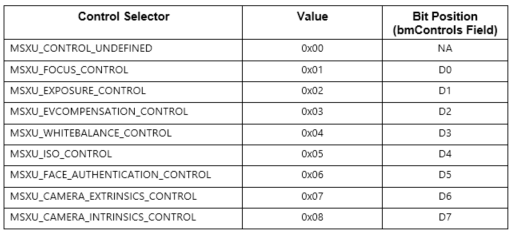
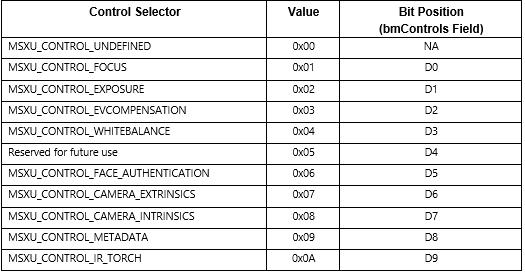
Add new documentation for IR Torch Control.

diff --git a/windows-driver-docs-pr/stream/ksproperty-cameracontrol-extended-irtorchmode.md b/windows-driver-docs-pr/stream/ksproperty-cameracontrol-extended-irtorchmode.md
@@ -1,0 +1,184 @@
+---
+title: KSPROPERTY\_CAMERACONTROL\_EXTENDED\_IRTORCHMODE
+description: This extended property control is used by the client to control an IR camera's infrared torch's power level and duty cycle.
+ms.assetid: 533759A0-6B2C-4AFC-9100-C431BCC9CF0F
+keywords: ["KSPROPERTY_CAMERACONTROL_EXTENDED_IRTORCHMODE Streaming Media Devices"]
+topic_type:
+- apiref
+api_name:
+- KSPROPERTY_CAMERACONTROL_EXTENDED_IRTORCHMODE
+api_location:
+- Ksmedia.h
+api_type:
+- HeaderDef
+ms.author: jocorley
+ms.date: 11/11/2018
+ms.topic: article
+ms.prod: windows-hardware
+ms.technology: windows-devices
+---
+
+# KSPROPERTY_CAMERACONTROL_EXTENDED_IRTORCHMODE
+
+This extended property control is used by the client to control an IR camera's infrared torch's power level and duty cycle. It is sent to the driver along with a standard [**KSCAMERA_EXTENDEDPROP_HEADER**](https://msdn.microsoft.com/library/windows/hardware/dn925136) structure followed by a [**KSCAMERA_EXTENDEDPROP_VIDEOPROCSETTING**](https://docs.microsoft.com/en-us/windows-hardware/drivers/ddi/content/ksmedia/ns-ksmedia-tagkscamera_extendedprop_videoprocsetting) structure.
+
+## <span id="Usage_Summary_Table"></span><span id="usage_summary_table"></span><span id="USAGE_SUMMARY_TABLE"></span>Usage Summary Table
+
+<table>
+<colgroup>
+<col width="20%" />
+<col width="20%" />
+<col width="20%" />
+<col width="20%" />
+<col width="20%" />
+</colgroup>
+<thead>
+<tr class="header">
+<th>Get</th>
+<th>Set</th>
+<th>Target</th>
+<th>Property descriptor type</th>
+<th>Property value type</th>
+</tr>
+</thead>
+<tbody>
+<tr class="odd">
+<td><p>Yes</p></td>
+<td><p>Yes</p></td>
+<td><p>Filter</p></td>
+<td><p>[<strong>KSPROPERTY</strong>](https://msdn.microsoft.com/library/windows/hardware/ff564262)</p></td>
+<td><p>[<strong>KSCAMERA_EXTENDEDPROP_HEADER</strong>](https://msdn.microsoft.com/library/windows/hardware/dn567563)</p></td>
+</tr>
+</tbody>
+</table>
+
+## Remarks
+
+The property request contains a [**KSCAMERA_EXTENDEDPROP_HEADER**](https://msdn.microsoft.com/library/windows/hardware/dn567563) structure and a [**KSCAMERA_EXTENDEDPROP_VIDEOPROCSETTING**](https://msdn.microsoft.com/library/windows/hardware/dn567564) structure.
+
+The total property data size is **sizeof**(KSCAMERA_EXTENDEDPROP_HEADER) + **sizeof**(KSCAMERA_EXTENDEDPROP_VIDEOPROCSETTING). The **Size** member of [**KSCAMERA_EXTENDEDPROP_HEADER**](https://msdn.microsoft.com/library/windows/hardware/dn567563) is set to this total property data size.
+
+The following are flags that can be placed in the **KSCAMERA_EXTENDEDPROP_HEADER.Flags** and **KSCAMERA_EXTENDEDPROP_HEADER.Capability** fields.  They define the IR torch's operating mode(s).
+
+| Torch mode                                                       | Description                        |
+|------------------------------------------------------------------|------------------------------------|
+| KSCAMERA_EXTENDEDPROP_IRTORCHMODE_OFF                            | Off.                               |
+| KSCAMERA_EXTENDEDPROP_IRTORCHMODE_ALWAYS_ON                      | Always on.                         |
+| KSCAMERA_EXTENDEDPROP_IRTORCHMODE_ALTERNATING_FRAME_ILLUMINATION | On for every other frame.          |
+
+KSCAMERA_EXTENDEDPROP_IRTORCHMODE is always a synchronous control.  The control has no defined behavior when the camera is not streaming.
+
+For a GET request, a driver sets the following fields:
+
+- **KSCAMERA_EXTENDEDPROP_HEADER.Capability** with a bitmask of the above KSCAMERA_EXTENDEDPROP_IRTORCHMODE_*XXX* flags representing the operating modes supported by the camera.
+- **KSCAMERA_EXTENDEDPROP_HEADER.Flags** to one of the above KSCAMERA_EXTENDEDPROP_IRTORCHMODE_*XXX* flags to indicate the current operating mode.
+- **KSCAMERA_EXTENDEDPROP_VIDEOPROCSETTING.Mode** to 0.
+- **KSCAMERA_EXTENDEDPROP_VIDEOPROCSETTING.Min** to the minimum power level available.
+- **KSCAMERA_EXTENDEDPROP_VIDEOPROCSETTING.Max** to the maximum power level available.
+- **KSCAMERA_EXTENDEDPROP_VIDEOPROCSETTING.Step** to the minimum increment between power levels.
+- **KSCAMERA_EXTENDEDPROP_VIDEOPROCSETTING.VideoProc.ul** to the current power level. This value should default to the same power level normally used by the face authentication control.
+
+For a SET request, a driver uses the following fields:
+
+- **KSCAMERA_EXTENDEDPROP_HEADER.Flags** to set an operating mode.
+- **KSCAMERA_EXTENDEDPROP_VIDEOPROCSETTING.VideoProc.ul** to set a power level.  This value has no effect on KSCAMERA_EXTENDEDPROP_IRTORCHMODE_OFF.
+
+The table below contains the descriptions and requirements for the [**KSCAMERA_EXTENDEDPROP_HEADER**](https://msdn.microsoft.com/library/windows/hardware/dn925136) structure fields when using the metadata control.
+
+<table>
+<colgroup>
+<col width="30%" />
+<col width="70%" />
+</colgroup>
+<thead>
+<tr class="header">
+<th>Member</th>
+<th>Description</th>
+</tr>
+</thead>
+<tbody>
+<tr class="odd">
+<td><p>Version</p></td>
+<td><p>This must be 1.</p></td>
+</tr>
+<tr class="even">
+<td><p>PinId</p></td>
+<td><p>KSCAMERA_EXTENDEDPROP_FILTERSCOPE (0xFFFFFFFF).</p></td>
+</tr>
+<tr class="odd">
+<td><p>Size</p></td>
+<td><p>This must be sizeof(<strong>KSCAMERA_EXTENDEDPROP_HEADER</strong>)+sizeof([<strong>KSCAMERA_EXTENDEDPROP_VIDEOPROCSETTING</strong>](https://msdn.microsoft.com/library/windows/hardware/dn925144)),</p></td>
+</tr>
+<tr class="even">
+<td><p>Result</p></td>
+<td><p>This value is ignored for synchronous controls.</p></td>
+</tr>
+<tr class="odd">
+<td><p>Capability</p></td>
+<td><p>May be any combination of <strong>KSCAMERA_EXTENDEDPROP_IRTORCHMODE_OFF</strong>, <strong>KSCAMERA_EXTENDEDPROP_IRTORCHMODE_ALWAYS_ON</strong> or <strong>KSCAMERA_EXTENDEDPROP_IRTORCHMODE_ALTERNATIVE_FRAME_ILLUMINATION</strong>.  
+This field must report at least one capability.  The field must report either  <strong>KSCAMERA_EXTENDEDPROP_IRTORCHMODE_ALWAYS_ON</strong> or <strong>KSCAMERA_EXTENDEDPROP_IRTORCHMODE_ALTERNATIVE_FRAME_ILLUMINATION</strong> or both. The value <strong>KSCAMERA_EXTENDEDPROP_IRTORCHMODE_OFF</strong> is optional.
+</p></td>
+</tr>
+<tr class="even">
+<td><p>Flags</p></td>
+<td><p>Must be one of the flags reported in Capability.  The default must value must be either <strong>KSCAMERA_EXTENDEDPROP_IRTORCHMODE_ALWAYS_ON</strong> or <strong>KSCAMERA_EXTENDEDPROP_IRTORCHMODE_ALTERNATIVE_FRAME_ILLUMINATION</strong>.</p></td>
+</tr>
+</tbody>
+</table>
+
+The table below contains the descriptions and requirements for the [**KSCAMERA_EXTENDEDPROP_VIDEOPROCSETTING**](https://msdn.microsoft.com/library/windows/hardware/dn567564) structure fields when using the IR torch mode control.
+
+<table>
+<colgroup>
+<col width="30%" />
+<col width="70%" />
+</colgroup>
+<thead>
+<tr class="header">
+<th>Member</th>
+<th>Description</th>
+</tr>
+</thead>
+<tbody>
+<tr class="odd">
+<td><p>Mode</p></td>
+<td><p>Unused.  Must be 0.</p></td>
+</tr>
+<tr class="even">
+<td><p>Min/Max/Step</p></td>
+<td><p>The Min/Max/Step contains the minimum/maximum/increment of the IR power settings.  Driver must return these for GET operations.  (Max – Min) must be evenly divisible by Step.  Step may not be zero (0).</p></td>
+</tr>
+<tr class="odd">
+<td><p>VideoProc</p></td>
+<td><p>For SET operations, the VideoProc.Value.ul must specify the power level within the range described by the Min/Max/Step parameter.  For GET operations, the driver must return the current power level.</p></td>
+</tr>
+<tr class="even">
+<td><p>Reserved</p></td>
+<td><p>Unused.  Must be ignored by the driver.</p></td>
+</tr>
+</tbody>
+</table>
+
+## Requirements
+
+<table>
+<colgroup>
+<col width="50%" />
+<col width="50%" />
+</colgroup>
+<tbody>
+<tr class="odd">
+<td><p>Header</p></td>
+<td>Ksmedia.h</td>
+</tr>
+</tbody>
+</table>
+
+ 
+
+ 
+
+
+
+
+

diff --git a/windows-driver-docs-pr/stream/uvc-extensions-1-5.md b/windows-driver-docs-pr/stream/uvc-extensions-1-5.md
@@ -230,6 +230,44 @@ GET_RES, GET_MIN, GET_MAX, GET_CUR requests shall report field **bNumEntries** s
 
 GET_DEF request shall list all endpoints that have the intrinsics information available.
 
+##### 2.2.2.10 Metadata Control
+
+This control allows the host software to query and control metadata produced by the camera. This is a global control that affects all endpoints on all video streaming interfaces associated with the video control interface. This control gets mapped to [**KSPROPERTY_CAMERACONTROL_EXTENDED_METADATA**](ksproperty-cameracontrol-extended-metadata.md) by the camera driver.
+
+![Metadata Control](images/uvc-1-15-metadata-control.png)
+
+If SET_CUR request is supported by the firmware, the following applies:
+- GET_MIN, GET_DEF requests shall report field dwValue set to 0.
+- GET_RES request shall report field dwValue to be the same value as reported by GET_MAX request.
+- When a SET_CUR request is received with dwValue set to 0, the camera shall not produce any metadata. When a SET_CUR request is received with dwValue set to be the same value as reported by GET_MAX request, the camera can produce metadata and the size of such metadata cannot exceed dwValue for any frame.
+
+If SET_CUR request is not supported by the firmware, the following applies:
+- GET_MIN, GET_DEF requests shall report field dwValue to be the same value as reported by GET_MAX request.
+- GET_RES request shall report field dwValue set to 0.
+- The camera can produce metadata and the total size of such metadata cannot exceed the dwValue - as reported by GET_MAX request – times 1024 bytes less the size of a UsbVideoHeader metadata payload, for any frame.  
+- A UsbVideoHeader metadata payload is the sizeof(KSCAMERA_METADATA_ITEMHEADER) + sizeof(KSTREAM_UVC_METADATA) or 24 bytes.
+The metadata produced shall conform to the Microsoft standard-format metadata described in section 2.2.3.
+
+##### 2.2.2.11 IR Torch Control
+
+This control provides a flexible means for the IR LED hardware to report the extent to which it can be controlled and provides the ability to control it.  This is a global control that affects all endpoints on all video streaming interfaces associated with the video control interface by adjusting the power to an IR lamp connected to the camera. This control gets mapped to [**KSPROPERTY_CAMERACONTROL_EXTENDED_IRTORCHMODE**](ksproperty-cameracontrol-extended-irtorchmode.md) by the camera driver.
+
+![IR Torch Control](images/uvc-1-15-irtorch-control.png)
+
+The following applies:
+- GET_LEN request shall report a value of 8.
+- GET_INFO request shall report a 3.  This value indicates a synchronous control that supports GET_CUR and SET_CUR.
+- GET_MIN request shall report field dwMode set to 0 and dwValue set to a value indicating minimum power.  A power level of 0 may indicate OFF, but the minimum operational power level need not be 0.
+- GET_RES request shall report field dwMode set to 0 and dwValue set a to a number less than or equal to GET_MAX(dwValue) – GET_MIN(dwValue) and such that GET_MAX(dwValue) – GET_MIN(dwValue) is evenly divisible by that value.  dwValue may not be zero (0).
+- GET_MAX request shall report field dwMode set with bits D[0-2] set to identify the capabilities of this control.  dwMode must have bit D0 set, indicating that OFF is supported, and it must have at least one other bit set, supporting an active state.  dwValue must be set to a value indicating normal power.
+- GET_DEF request shall report field dwMode set to the default mode the system should be in before streaming begins.  dwMode must be set to 2 (ON) or 4 (ALTERNATING).  dwValue should be set to the power level normally used for the FaceAuth control.  dwValue is defined by the manufacturer.
+- GET_CUR request shall report field dwMode set to the current operating mode and dwValue set to the current illumination.
+- When a SET_CUR request is received, the IR Torch will set the illumination to a prorate intensity using the requested operating mode.
+
+The IR Torch must emit the [**MF_CAPTURE_METADATA_FRAME_ILLUMINATION**](standardized-extended-controls-.md) attribute for every frame.  It can provide this through a Device MFT or by including a **MetadataId_FrameIllumination** attribute in the metadata payload from the camera.  See section 2.2.3.4.4.  
+
+This metadata’s sole purpose is to indicate whether a frame is illuminated or not.  This is the same metadata required by the [**KSPROPERTY_CAMERACONTROL_EXTENDED_FACEAUTH_MODE**](ksproperty-cameracontrol-extended-faceauth-mode.md) DDI and  the **MSXU_FACE_AUTHENTICATION_CONTROL** defined in section 2.2.2.7.  
+
 #### 2.2.3 Metadata
 
 The design for standard-format frame-metadata builds on the UVC custom metadata design from Windows 10. In Windows 10, custom metadata is supported for UVC by using a custom INF for the camera driver (note: the camera driver can be based on the Windows USBVIDEO.SYS, but a custom INF is required for the given hardware for metadata to come through). If MetadataBufferSizeInKB<PinIndex> registry entry is present and non-zero, then custom metadata is supported for that pin and the value indicates the buffer size used for the metadata. The <PinIndex> field indicates a 0 based index of the video pin index.

diff --git a/windows-driver-docs-pr/stream/kspropertysetid-extendedcameracontrol.md b/windows-driver-docs-pr/stream/kspropertysetid-extendedcameracontrol.md
@@ -108,6 +108,10 @@ The following camera driver controls are new for Windows 10, version 1607.
 
 [**KSPROPERTY\_CAMERACONTROL\_EXTENDED\_FACEAUTH\_MODE**](ksproperty-cameracontrol-extended-faceauth-mode.md)
 
+The following camera driver controls are new for Windows 10, version 1904.
+
+[**KSPROPERTY_CAMERACONTROL_EXTENDED_IRTORCH_MODE**](ksproperty-cameracontrol-extended-irtorchmode.md)
+
  
 
  
